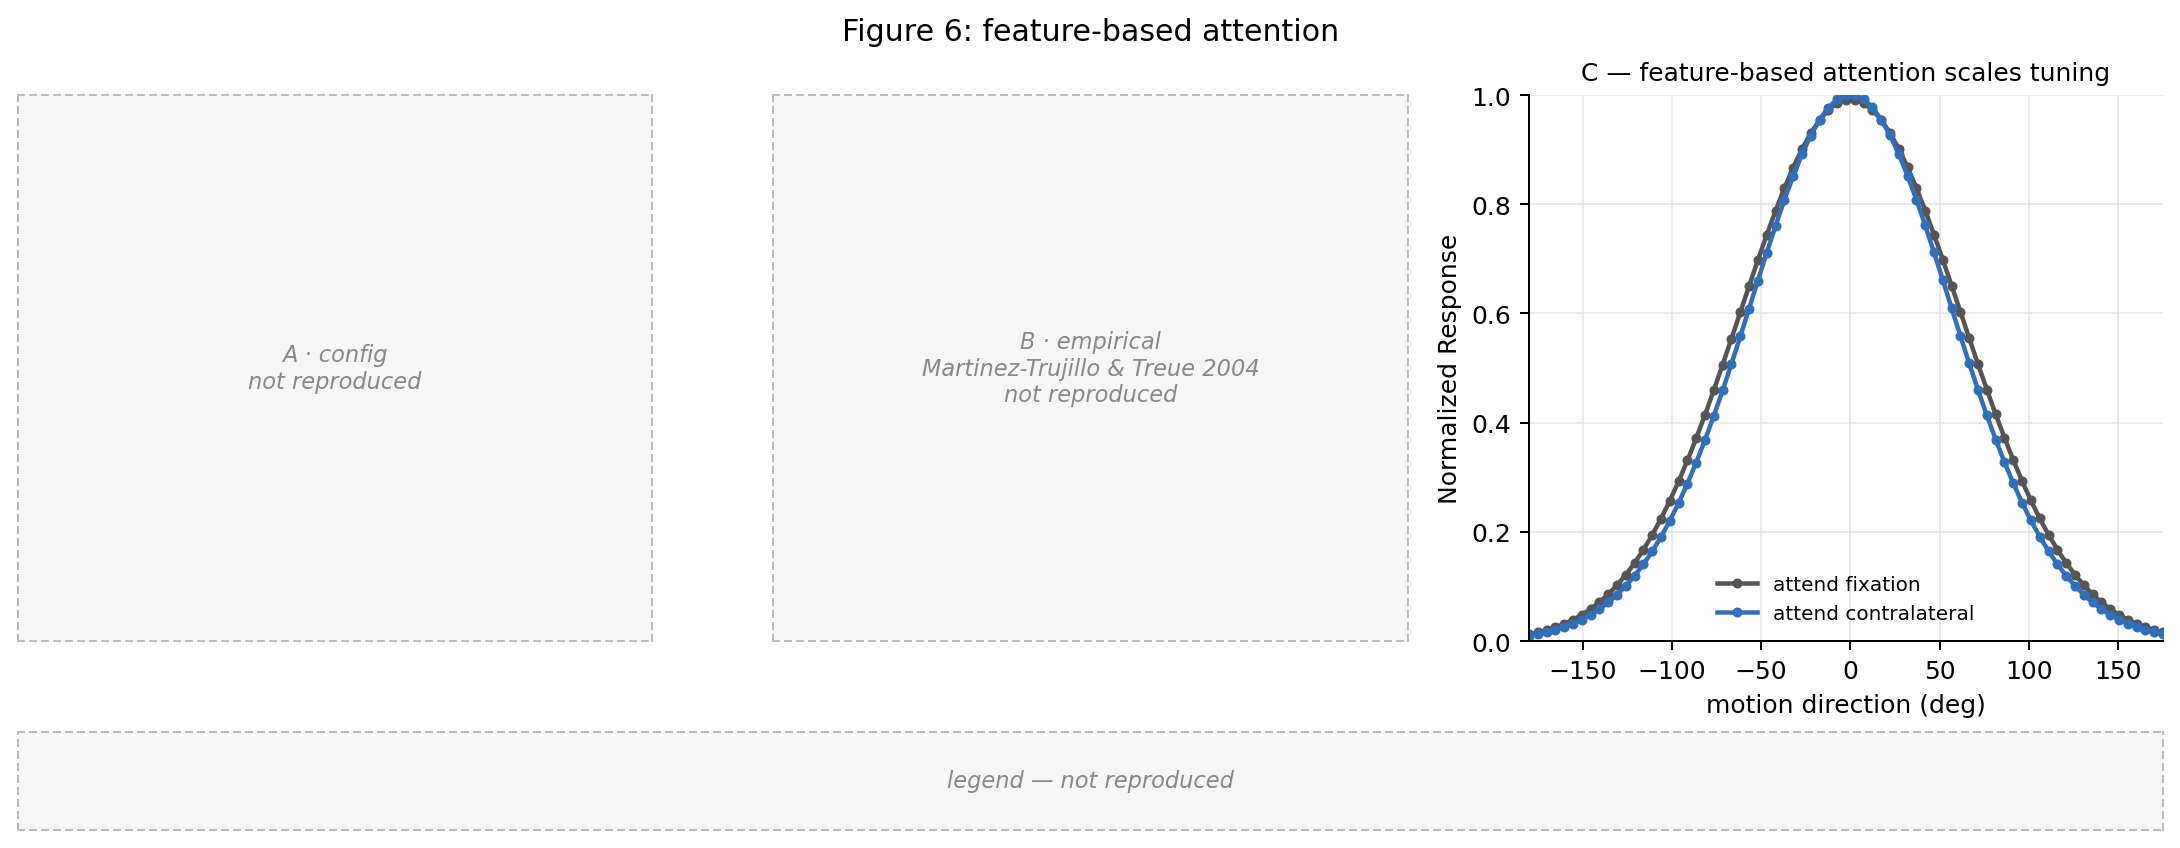
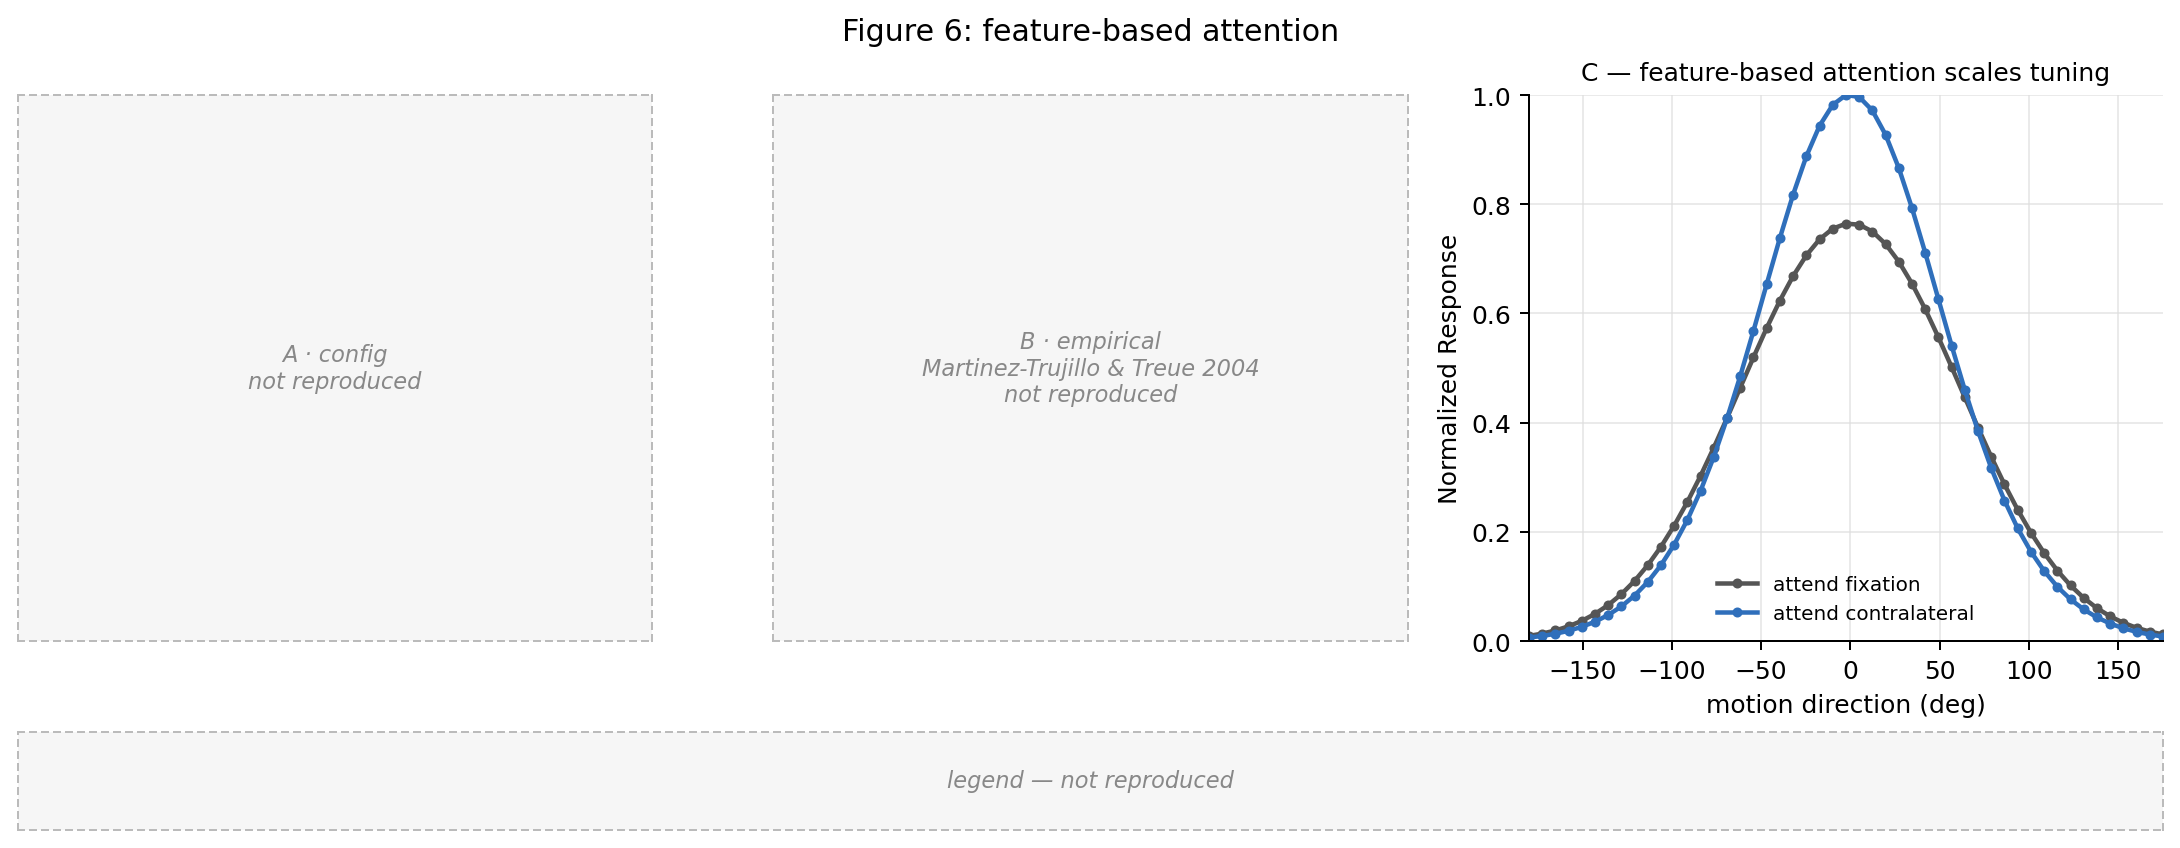
rh2009 Fig 6C: feature-based attention is spatially global (CODE_BUG fix)
run_figure_6C built the attend-opposite condition with spatial_center=x_opposite
(-50) AND feature_center=theta_stim, so A = 1 + (gamma-1)*G_x*G_theta. At the
recorded neuron (x=0, far from -50 vs attention-field size 30) G_x ~ 0, so A ~ 1
regardless of theta: the feature gain never reached the recorded neuron. The two
tuning curves overlapped (peak ratio ~1.01, no sharpening), independent of
suppression gain.

Fix (mechanism, not a fit): make feature-based attention spatially GLOBAL — the
attend-opposite condition is now {spatial_center: None, feature_center: theta_stim},
feature-selective in theta and flat in x, so the directional gain reaches the
recorded neuron at x=0 (C-023: the stimulus drive is multiplied by an attention
field itself selective for motion direction). Spatial attention away from the RF
is represented by the attend-fixation baseline, not by stripping the feature
component from the RF.

Test state:
- MUST-PASS (CODE_BUG) now GREEN: test_figure_6C_code_bug.py peak-enhancement
  (peak ratio 1.01 -> 1.31, threshold >=1.08) and sharpening (FWHM 140->111,
  +30deg, threshold >=18deg).
- T-6C-Q-sharpen (qualitative tripwire) correctly FLIPS GREEN with the fixed
  mechanism, exactly as the test author predicted.
- T-6C-H-peakratio (hard intended-failure tripwire) stays RED: faithful magnitude
  1.31 overshoots digitized 1.11 (a genuine magnitude divergence; NOT tuned).
- No new failures introduced (18 -> 15 suite fails). Remaining fails are the
[…]

Changed region(s): [[0.6862, 0.1226, 0.9982, 0.7665]]

diff --git a/implementation/src/rh_model/protocols.py b/implementation/src/rh_model/protocols.py
@@ -286,7 +286,24 @@ def run_figure_5C(n_orientations: int = 19):
 def run_figure_6C(n_directions: int = 25, x_opposite: float = -50.0, x_fixation: float = 50.0):
     """Sweep stimulus motion direction; attend_fixation vs attend_opposite.
 
-    Citation: C-017 / spec.simulation_protocols.figure_6C
+    Citation: C-017, C-021, C-023 / spec.simulation_protocols.figure_6C
+
+    Feature-based attention is spatially GLOBAL (C-023: "the stimulus drive is
+    multiplied by an attention field that is itself selective for motion
+    direction" — the directional gain multiplies the recorded neuron's drive, so
+    it must reach the RF). The attend-opposite-stimulus condition therefore
+    selects the current motion direction (feature_center = θ_stim) but is FLAT in
+    x (spatial_center = None), so the feature gain reaches the recorded neuron at
+    x = 0 and sharpens / elevates its direction tuning (C-021, C-023). Confining
+    the field to a spatial Gaussian at x_opposite = -50 (attention-field size 30)
+    zeroes the feature gain at x = 0 (G_x ≈ 0), so the curves overlap (peak ratio
+    ~1.01, no sharpening) regardless of suppression gain — that is the
+    spatial-confinement bug, not the feature mechanism. Spatial attention being
+    directed AWAY from the RF (to the fixation/opposite location) is captured by
+    the attend-fixation baseline, not by stripping the feature component from the
+    RF. x_opposite is retained only as the location of the second (yoked) stimulus
+    in E. The spatial-globality of feature attention is not yet a named ledger
+    assumption — logged as SQ-006 (underspecification) for Phase A to formalize.
     """
     s = _sci("figure_6C")
     overrides_template = dict(
@@ -310,7 +327,9 @@ def run_figure_6C(n_directions: int = 25, x_opposite: float = -50.0, x_fixation:
         )["response"]
         attend_opposite_stimulus_tuning[idx] = simulate(
             stimuli,
-            {"spatial_center": x_opposite, "feature_center": float(theta_stim)},
+            # Feature-based attention is spatially global (C-023): flat in x so
+            # the θ_stim-selective gain reaches the recorded neuron at x = 0.
+            {"spatial_center": None, "feature_center": float(theta_stim)},
             params,
         )["response"]
     return measurements.tuning_record({

diff --git a/logs/spec_questions.md b/logs/spec_questions.md
@@ -81,3 +81,50 @@ escalation_options_for_phaseA: |
   (c) Revisit the cited σ_space=20 / σ=0.1 / stimulus_size values — with σ_space=20 ≫ stimulus_size,
       no integral-normalized field (1D or 2D) makes S commensurate with A·E at the RF, which is the
       arithmetic core of the deficit.
+
+## SQ-006 — feature-based attention is spatially GLOBAL (Fig 6C / 7C attend-opposite); needs a named ledger assumption
+date: 2026-06-03
+spec_ref: simulation_protocols.figure_6C; pseudocode/figure_6_protocol.md (Procedure 6C step 2); pipeline.build_attention_field; constants C-017, C-021, C-023
+status: RESOLVED-IN-BUILD (Phase B), pending Phase-A formalization of the assumption entry.
+question: |
+  The 2026-06-03 CODE_BUG finding (test_figure_6C_code_bug.py, MUST-PASS) showed run_figure_6C
+  built the attend-opposite-stimulus condition as a SPATIAL Gaussian centered at x_opposite=-50
+  TIMES a feature Gaussian. Because A = 1 + (γ-1)·G_x·G_θ and the recorded neuron sits at x=0,
+  far from x=-50 relative to the attention-field size (30), G_x ≈ 0 there, so A ≈ 1 regardless of
+  θ: the feature gain NEVER reaches the recorded neuron. The two curves overlap (peak ratio ~1.01,
+  no sharpening), independent of suppression gain. That contradicts C-023 ("the stimulus drive is
+  multiplied by an attention field that is itself selective for motion direction" — the directional
+  gain must multiply the RECORDED neuron's drive) and C-021/C-017.
+
+  FIX APPLIED (Phase B, this pass): in run_figure_6C the attend-opposite condition is now
+  {spatial_center: None, feature_center: θ_stim} — feature-selective in θ, FLAT (global) in x — so
+  the directional gain reaches the recorded neuron at x=0. Spatial attention being directed AWAY
+  from the RF is represented by the attend-fixation BASELINE, not by stripping the feature component
+  from the RF. Empirically this restores peak elevation 1.01 -> 1.31 (digitized ~1.11) and FWHM
+  sharpening 133°/140° -> ~111° (vs negligible before), passing the two MUST-PASS CODE_BUG tests and
+  flipping the T-6C-Q-sharpen tripwire green as the test author predicted. The faithful magnitude
+  (1.31) OVERSHOOTS the digitized 1.11, so the intended-failure tripwire T-6C-H-peakratio (±0.06
+  around 1.11) correctly REMAINS RED — a genuine magnitude divergence, not tuned.
+
+  UNDERSPECIFICATION TO FORMALIZE: "feature-based attention is spatially global" is currently only
+  IMPLIED by C-023 and the Fig-6 caption ("feature-based attention was matched to the stimulus in the
+  receptive field"); there is no NAMED ledger assumption for it (the pseudocode/figure_6_protocol.md
+  Procedure 6C step 2 still literally prescribes a spatial Gaussian centered at x_opp = -20, which is
+  the confined build that produces the bug). The docstring cites C-017/C-021/C-023 (which resolve),
+  but the spatial-globality convention deserves its own assumption entry.
+chosen_assumption: |
+  Phase B applied the spatially-global feature-attention mapping for Fig 6C (cited to C-017/C-021/
+  C-023; no invented numbers). Did NOT touch 7C: its attend_nonpref already uses spatial_center=0 (AT
+  the RF) so the x-confinement bug does not arise there, and the finding/test author supplied no
+  verified 7C target (the 7C CODE_BUG sub-claim was deliberately NOT encoded — see
+  test_figure_6C_code_bug.py NOTE ON 7C). Left article_aware/spec UNCHANGED (Phase-A-owned).
+escalation_options_for_phaseA: |
+  (a) Add a named assumption A-014 "feature_attention_is_spatially_global" to
+      article_aware/spec/assumptions.yaml (the attend-opposite / feature-based condition is flat in x,
+      feature-selective in θ; spatial attention away from the RF is the baseline), and update
+      pseudocode/figure_6_protocol.md Procedure 6C step 2 to drop the x_opp-centered spatial Gaussian
+      on the attend-opposite field. Then the protocol docstring can cite A-014 directly. OR
+  (b) If a DIFFERENT attention-field factorization is intended (e.g. a separable global-feature ×
+      local-spatial-baseline term), spec it precisely in the pseudocode so Phase B can implement that
+      convention instead. The current pseudocode (spatial Gaussian at x_opp) is the confined build the
+      CODE_BUG names and cannot be implemented faithfully.
